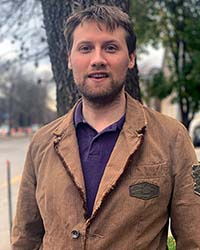
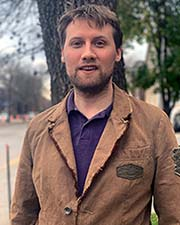
image

diff --git a/aboutme.md b/aboutme.md
@@ -5,7 +5,7 @@ subtitle: Get to know me
 ---
 
 My name is Mark-James McDougall, and I'm a Developer from Montreal, Canada. I work as a Webmaster at <a href="https://mcgill.ca" target="_blank">McGill University</a> (BA'15) and have experience with a range of technologies including: 
-- Javascript (ES6, Nodejs), HTML, & CSS <img src="/img/markjames-profile-photo.jpg" align="right" width="200" height="250" alt="Profile photo of Mark-James McDougall">
+- Javascript (ES6, Nodejs), HTML, & CSS <img src="/img/markjames-profile-photo.jpg" align="right" width="180" height="225" alt="Profile photo of Mark-James McDougall">
 - Swift/SwiftUI (iOS, MacOS)
 - C# (Dotnet Core)
 - CMSes (Drupal, Adobe AEM, Wordpress, iModules)
